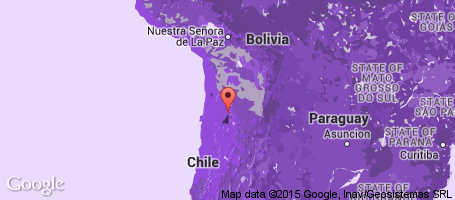
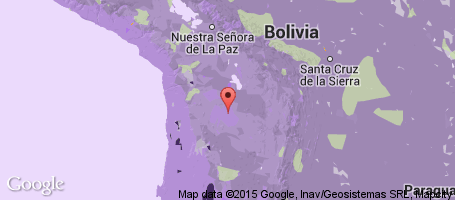
Added San Pedro post, updated location.

diff --git a/app/blog/20150224-the-chilean-desert.md b/app/blog/20150224-the-chilean-desert.md
@@ -1,0 +1,39 @@
+---
+pages      : all
+slug       : the-chilean-desert
+title      : The Chilean Desert
+date       : !!str 2015-02-24T18:30:00-03:00
+categories : [ ]
+tags       : [ Andes, Desert, Geyser, Sand dunes ]
+geography  :
+  - id        : 3871781
+    name      : San Pedro de Atacama
+    coord     : [ -68.20113, -22.9111 ]
+    continent : { code: SA, name: &continent3871781 South America }
+    country   : { code: CL, name: &country3871781 Chile }
+    transport : flight
+continents:
+  - *continent3871781
+countries:
+  - *country3871781
+archives:
+  - !!str ''
+  - !!str 2015
+  - !!str 2015-02
+---
+
+We chose San Pedro de Atacama as our last stop in Chile. Together with [Torres del Paine](http://localhost:8888/blog/the-wilderness-of-chilean-patagonia.html) and [Easter Island](/blog/mysterious-easter-island.html), San Pedro is the third most popular tourist destination in Chile. And for a reason, as we discovered unearthy and breathtaking landscapes in this desert region of Chile. We explored Valle de la Luna (Moon Valley), and Geyser del Tatio.
+
+From Santiago, we opted to take a short one hour flight over a 24-hour bus ride. The flight was a little bit more expensive (around 50$), but we really did not want to spend 24 hours in a bus not getting any sleep. Also, since San Pedro is located 2400m above sealevel, we thought we needed to be well rested to adapt and not get altitude sickness.
+
+San Pedro is a small pictoresque town close to the border with Bolivia. Many tour agencies organize tours to different parts of the desert, as well as tours to the world famous Salar de Uyuni in Bolivia. But, before we head to Salar de Uyuni and Bolivia, we had three days in San Pedro.
+
+## Valle de la Luna
+The tour to Valle de la Luna brings you to several highlights: the Moon Valley itself, but also a cave where rocks covered in salt can be found. As this area used to be a sea, salt is predominant in this area and shapes the landscape. After the caves, which were not that interesting, we got to see a huge sanddune, as well as a small canyon with an overhanging cliff, called Piedra del Coyote.
+
+After snapping a picture or two there, our driver brought us to the Valle de la Muerte (Death Valley) for the sunset. Unfortunately, on the road (or, cliff would be more appropriate), the jeep got stuck in sand and slowly slided towards the edge. We decided to get out, leave the jeep, and look for transport back to San Pedro once down in Death Valley. Luckily, there were ample people as this is a popular spot for sandboarding. In the end, the tour was not that great, but it gave us a basic impression of what the landscape looks like.
+
+## Geyser del Tatio
+Our second tour left at five in the morning to bring us to Geyser del Tatio, to see a large amount of steaming hot geysers. We left early not because of the sunrise, but because the difference in temperature (it gets really cold in the desert at night, we were freezing) makes the steam from the geysers fully visible. After sunrise, we decided to take a bath in one of the geysers, unfortunately the surface was very uneven, and the water felt not very comfortable even though it supposedly was 29°C.
+
+On the way back to San Pedro, the driver stopped at a few spots which offered a great view of the Bolivian Andes Mountains, as well as a lagoon full of flamingos. A great conclusion to an early, but very nice day. After we arrived back in our hostel, we did what everyone does here at midday: sleep. We needed it, as the next three days in Salar de Uyuni will be packed.

diff --git a/app/blog/20150218-chile-the-mayo-capital.md b/app/blog/20150218-chile-the-mayo-capital.md
@@ -5,6 +5,7 @@ title      : "Chile: the Mayo Capital"
 date       : !!str 2015-02-18T20:00:00-03:00
 categories : [ Food ]
 tags       : [ ]
+sticky     : 10
 geography  :
   - id        : 3895114
     name      : Republic of Chile
@@ -28,6 +29,6 @@ Even though we initially found the ingredient list of Pasta del Choclo quite una
 
 We prefer the Argentinan wines over the Chileans ones, as the ones we tried had quite an intense aftertaste. The same holds for the beers, as in our opinion the Argentina beers are more flavorful.
 
-* The best: **Pastel de Choclo**,
+* The best: **llama** and **Pastel de Choclo**,
 * The worst: **Mote con Huesillos**,
 * The healthiest: **wild blueberries** and the **egg baked in avocado**.

diff --git a/app/blog/20150222-mysterious-easter-island.md b/app/blog/20150222-mysterious-easter-island.md
@@ -5,7 +5,6 @@ title      : Mysterious Easter Island
 date       : !!str 2015-02-22T21:00:00-05:00
 categories : [ ]
 tags       : [ Beach, Sightseeing ]
-sticky     : 10
 geography  :
   - id        : 4030726
     name      : Easter Island
